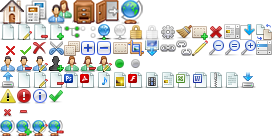
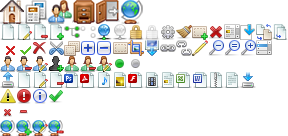
started with copying pages

diff --git a/assets/stylesheets/alchemy.css b/assets/stylesheets/alchemy.css
@@ -1100,7 +1100,7 @@ a.folder_link {
 .sitemap_sitetools {
 	padding: 0;
 	float: left;
-	width: 48px;
+	width: 70px;
 	margin-left: 8px;
 }
 
@@ -2321,6 +2321,10 @@ span.icon.edit {
 
 span.icon.add_page {
 	background: url(/images/alchemy/icons.png) -48px -24px;
+}
+
+span.icon.copy_page {
+	background: url(/images/alchemy/icons.png) -272px -24px;
 }
 
 span.icon.delete_page {

diff --git a/app/controllers/admin/pages_controller.rb b/app/controllers/admin/pages_controller.rb
@@ -33,14 +33,32 @@ class Admin::PagesController < AlchemyController
   
   def create
     begin
-      parent = Page.find_by_id(params[:page][:parent_id]) || Page.root
-      params[:page][:language_id] ||= parent.language ? parent.language.id : Language.get_default.id
-      params[:page][:language_code] ||= parent.language ? parent.language.code : Language.get_default.code
-      page = Page.create(params[:page])
-      if page.valid? && parent
-        page.move_to_child_of(parent)
+      if params[:page][:name] == "paste_from_clipboard"
+        @page = Page.find(session[:clipboard][:page_id])
+        Page.copy(@page, {
+          :name => @page.name+'_copy',
+          :urlname => @page.urlname+'_copy',
+          :title => @page.title+'_copy',
+          :title => @page.title+'_copy',
+          :visible => false,
+          :public => false,
+          :locked => false,
+          :locked_by => nil,
+          :created_at => Time.now,
+          :updated_at => nil,
+          :creator_id => current_user.id,
+          :updater_id => nil
+        })
+      else
+        parent = Page.find_by_id(params[:page][:parent_id]) || Page.root
+        params[:page][:language_id] ||= parent.language ? parent.language.id : Language.get_default.id
+        params[:page][:language_code] ||= parent.language ? parent.language.code : Language.get_default.code
+        page = Page.create(params[:page])
+        if page.valid? && parent
+          page.move_to_child_of(parent)
+        end
+        render_errors_or_redirect(page, admin_pages_path, _("page '%{name}' created.") % {:name => page.name})
       end
-      render_errors_or_redirect(page, admin_pages_path, _("page '%{name}' created.") % {:name => page.name})
     rescue Exception => e
       exception_handler(e)
     end
@@ -191,6 +209,16 @@ class Admin::PagesController < AlchemyController
   def sort
     @page_root = Page.language_root_for(session[:language_id])
     @sorting = !params[:sorting]
+  end
+  
+  # Copies a Page to the clipboard in the session
+  def copy_to_clipboard
+    @page = Page.find(params[:id])
+    session[:clipboard] = {}
+    session[:clipboard][:method] = params[:method]
+    session[:clipboard][:page_id] = @page.id
+  rescue Exception => e
+    exception_handler(e)
   end
   
   def order

diff --git a/app/models/page.rb b/app/models/page.rb
@@ -3,6 +3,8 @@ class Page < ActiveRecord::Base
   stampable
   has_many :folded_pages
   has_many :elements, :order => :position, :dependent => :destroy
+  #has_many :relative_pages, :through => :page_relations, :dependent => :nullify
+  has_and_belongs_to_many :relative_pages, :class_name => "Page", :join_table => "page_relations", :association_foreign_key => "relative_page_id", :foreign_key => "page_id", :uniq => true
   has_and_belongs_to_many :to_be_sweeped_elements, :class_name => 'Element', :uniq => true
   belongs_to :language
   
@@ -33,6 +35,7 @@ class Page < ActiveRecord::Base
   named_scope :language_roots, :conditions => {:language_root => true}
   named_scope :layoutpages, :conditions => {:layoutpage => true}
   named_scope :all_locked, :conditions => {:locked => true}
+  named_scope :relative_pages, :conditions => {'page_relations.page_id' => self.id}
   
   # Finds selected elements from page either except a passed collection or only the passed collection
   # Collection is an array of strings from element names. E.g.: ['text', 'headline']
@@ -330,6 +333,11 @@ class Page < ActiveRecord::Base
   
   def self.all_last_edited_from(user)
     Page.all(:conditions => {:updater_id => user.id}, :order => "updated_at DESC", :limit => 5)
+  end
+  
+  def self.get_from_clipboard(clipboard)
+    return nil if clipboard.blank?
+    self.find_by_id(clipboard[:page_id])
   end
   
 private
